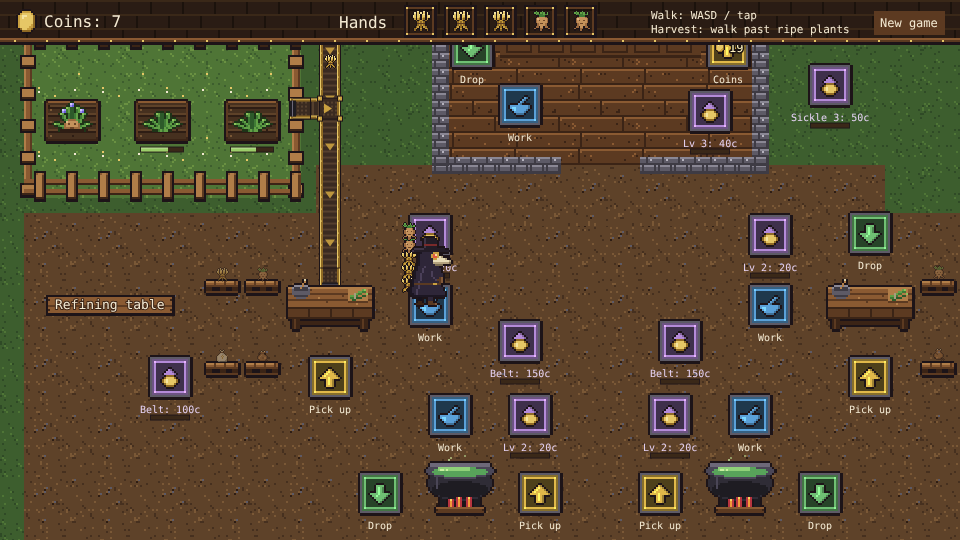
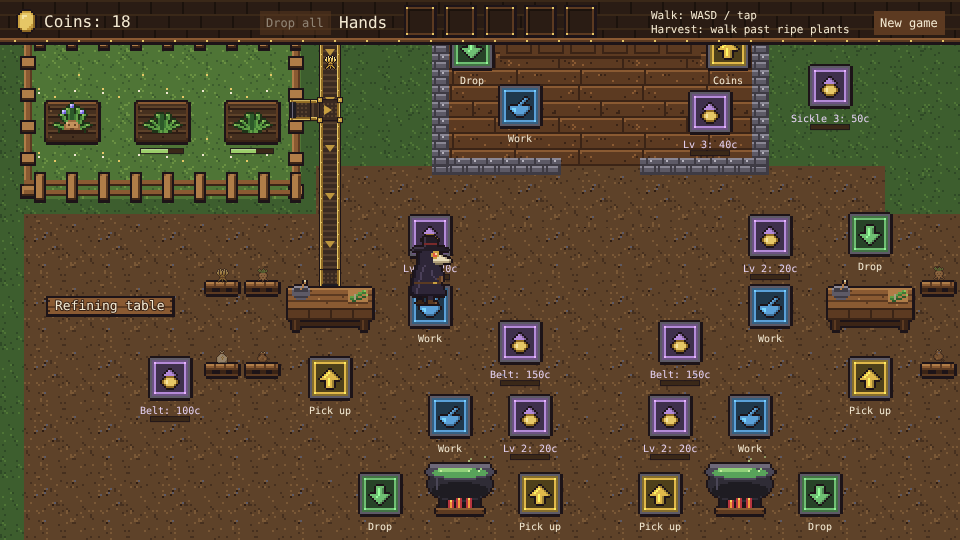
Check Drop all and the belt clearing hands in the playthrough
Building the garden belt now empties the plants from the doctor's hands, and at the end the
playthrough picks up refined goods and taps Drop all to throw them away. The README covers both.

Created with Claude Opus 5.5 (medium)

diff --git a/e2e/playthrough.spec.ts b/e2e/playthrough.spec.ts
@@ -3,8 +3,9 @@ import { expect, test, type Page } from '@playwright/test';
 // Plays the whole loop with real inputs (clicks to walk, as on a phone): harvest both gardens,
 // refine, brew, sell at the counter until there are enough coins, then buy an upgrade. Sell more to
 // buy the expansion's land, a field, a refining table and a cauldron, and play a round on that
-// second line. Then kit the doctor out with a bigger pack, faster boots and a longer sickle, and
-// last buy the conveyor belt that carries plants from the gardens to the table.
+// second line. Then kit the doctor out with a bigger pack, faster boots and a longer sickle, buy
+// the conveyor belt that carries plants from the gardens to the table, and last drop everything
+// carried with the Drop all button.
 // Game state is only read, through the `game` object the dev build puts on window.
 
 type Point = { x: number; y: number };
@@ -55,6 +56,9 @@ const WHEAT2_XS = [1038, 1128, 948];
 const WHEAT2_FIELD = { x: 1038, y: 152, cost: 25 };
 const REFINER2 = { drop: { x: 870, y: 468 }, work: { x: 770, y: 540 }, pickUp: { x: 870, y: 612 }, cost: 50 };
 const CAULDRON2 = { drop: { x: 820, y: 728 }, work: { x: 750, y: 650 }, pickUp: { x: 660, y: 728 }, cost: 75 };
+
+/** The Drop all button in the top bar, on screen rather than in the world. */
+const DROP_ALL = { x: 296, y: 22 };
 
 const UPGRADE_COST = 20;
 /**
@@ -411,10 +415,13 @@ test('plays the whole game loop', async ({ page }, testInfo) => {
 
   // Faster boots: the doctor covers a fifth more ground in the same time. Head off along the top of
   // the yard and, once under way, measure how far five steps of game time take them.
-  const box = (await canvas.boundingBox())!;
+  const strideBox = (await canvas.boundingBox())!;
   const view = await game.view();
   const away = { x: 400, y: SHOP_DOOR.y };
-  await page.mouse.click(box.x + ((away.x - view.x) * box.width) / VIEW.w, box.y + ((away.y - view.y) * box.width) / VIEW.w);
+  await page.mouse.click(
+    strideBox.x + ((away.x - view.x) * strideBox.width) / VIEW.w,
+    strideBox.y + ((away.y - view.y) * strideBox.width) / VIEW.w,
+  );
   await play(0, async () => false);
   const from = await game.feet();
   const ms = STEP_MS * 5;
@@ -446,22 +453,33 @@ test('plays the whole game loop', async ({ page }, testInfo) => {
   await snap('9-outfitted');
 
   // Conveyor belt: pay for it on its build marker. From then on ripe plants ride from the gardens to
-  // the refining table by themselves.
+  // the refining table by themselves, so the plants the doctor carries are cleared from their hands.
   const saved = await game.state();
   expect(saved.belts.garden).toEqual({ built: false, paid: 0, items: [] });
+  expect(saved.carrying.length).toBeGreaterThan(0);
   await walkTo(GARDEN_BELT);
   s = await until('garden belt built', (s) => s.belts.garden.built);
   expect(s.coins).toBe(saved.coins - GARDEN_BELT.cost);
-  // Wait by the table while the belt brings in the plants. Whatever the doctor picked up passing the
-  // mandrakes stays in hand: the table's drop marker went away with the belt.
-  // Anything that reaches the table from here on came by belt.
-  const inHand = s.carrying;
+  expect(s.carrying).toEqual([]);
+  // Wait by the table while the belt brings in the plants; anything that reaches the table from here
+  // on came by belt. The doctor's hands stay empty: the table's drop marker went away with the belt.
   const queued = s.refiner.queue.length + s.refiner.output.length;
   await walkTo(REFINER.drop, REFINER.work);
   await until('a plant on the garden belt', (s) => s.belts.garden.items.length > 0, 20_000);
   await snap('10-belt');
   s = await until('the belt delivered to the refining table', (s) => s.refiner.queue.length + s.refiner.output.length > queued, 20_000);
-  expect(s.carrying).toEqual(inHand);
+  expect(s.carrying).toEqual([]);
+
+  // Drop all: pick up refined goods, then tap the button in the top bar to empty the doctor's hands.
+  await until('goods refined at the table', (s) => s.refiner.output.length >= 2, 20_000);
+  await walkTo(REFINER.pickUp);
+  await until('refined goods in hand', (s) => s.carrying.length >= 2);
+  await walkTo(REFINER.work);
+  const box = (await canvas.boundingBox())!;
+  await page.mouse.click(box.x + (DROP_ALL.x * box.width) / VIEW.w, box.y + (DROP_ALL.y * box.width) / VIEW.w);
+  await until('hands emptied', (s) => s.carrying.length === 0, 1_000);
+  // Tapping the top bar doesn't walk the doctor.
+  expect((await game.feet()).moving).toBe(false);
   // Only what the playthrough meant to buy was paid for; no walk clipped another purple marker.
   const unpaid = { level: 0, paid: 0 };
   const bought = { level: 1, paid: 0 };

diff --git a/README.md b/README.md
@@ -19,6 +19,7 @@ map is bigger than the screen, so the camera follows the doctor.
 | --- | --- |
 | WASD / arrow keys, or tap | Walk |
 | Walk past ripe plants | Harvest every ripe plant within one character height of the doctor; the spinning sickle marks the edge |
+| Drop all (top bar) | Throw away everything the doctor carries |
 | Stand on a floor marker | Green: drop off items. Blue: work the station. Gold: pick up products or coins. Purple: pay coins to upgrade or build something |
 
 1. **Gardens**: each garden grows one kind of plant. Harvest ripe wheat in the wheat field and
@@ -52,7 +53,8 @@ a longer sickle harvests from a quarter further away (25, then 50 coins each).
 **Conveyor belts** take the walking out of the loop. Three can be bought on their own purple build
 markers, a handful of coins at a time: gardens to refining table (60 coins), table to cauldron (100)
 and cauldron to counter (150). A belt picks ripe plants or finished goods up at its start and
-hands them to the next station when it has room; the drop and pick-up markers it replaces go away.
+hands them to the next station when it has room; the drop and pick-up markers it replaces go away,
+and the goods it carries are cleared from the doctor's hands when it is built.
 The belts are steampunk machinery, brass rails over leather slats, in an otherwise medieval world.
 
 ![All three belts built](docs/screenshots/belts-map.png)
@@ -84,8 +86,9 @@ npm run preview   # serve the production build
 both gardens, refines, brews, sells to customers until it has 20 coins and buys a counter upgrade.
 It sells more to buy the expansion's land, a wheat field, a refining table and a cauldron, and
 plays a round on that second line. It buys the outfitter's pack, boots and sickle and checks each
-one works. Last it buys the garden belt and watches the belt bring plants
-to the refining table, checking items, coins, upgrades and purchases along the way. It plays at 4x
+one works. It buys the garden belt, which clears the plants from the doctor's hands, and watches
+the belt bring plants to the refining table. Last it picks up refined goods and empties its hands
+with the Drop all button, checking items, coins, upgrades and purchases along the way. It plays at 4x
 speed (`PLAYTHROUGH_SPEED`), so the run takes about three minutes. The Playthrough workflow runs it on every PR
 and push to main and uploads a video and milestone screenshots as the `playthrough` artifact.
 
